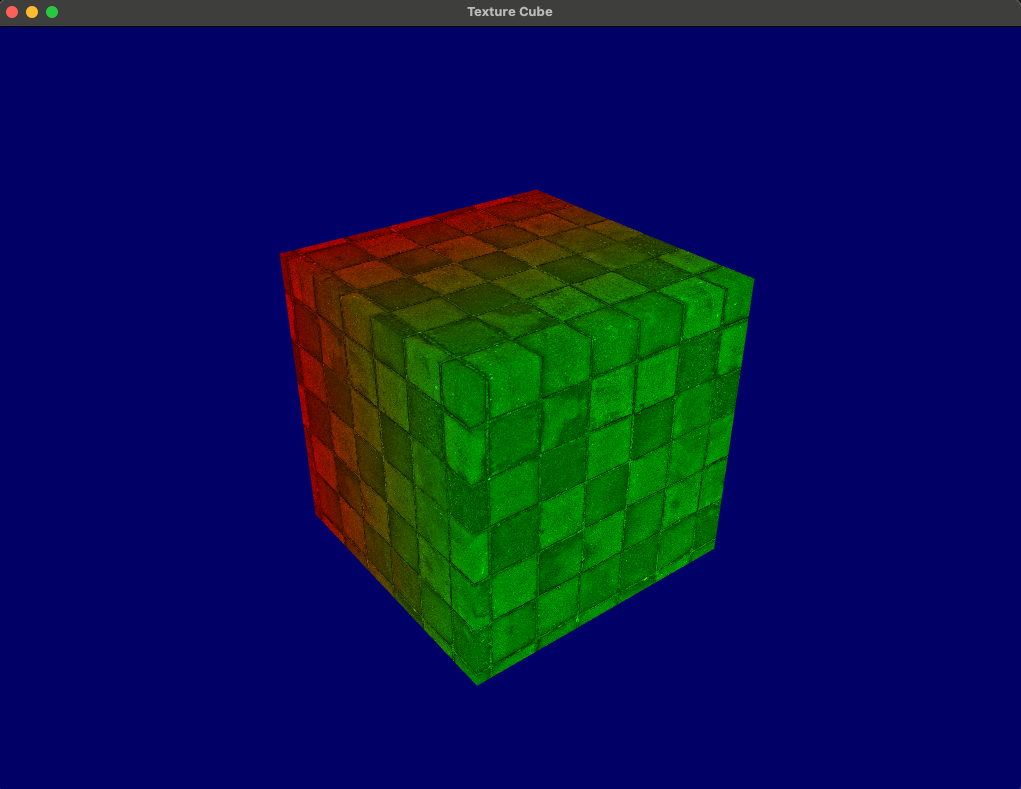
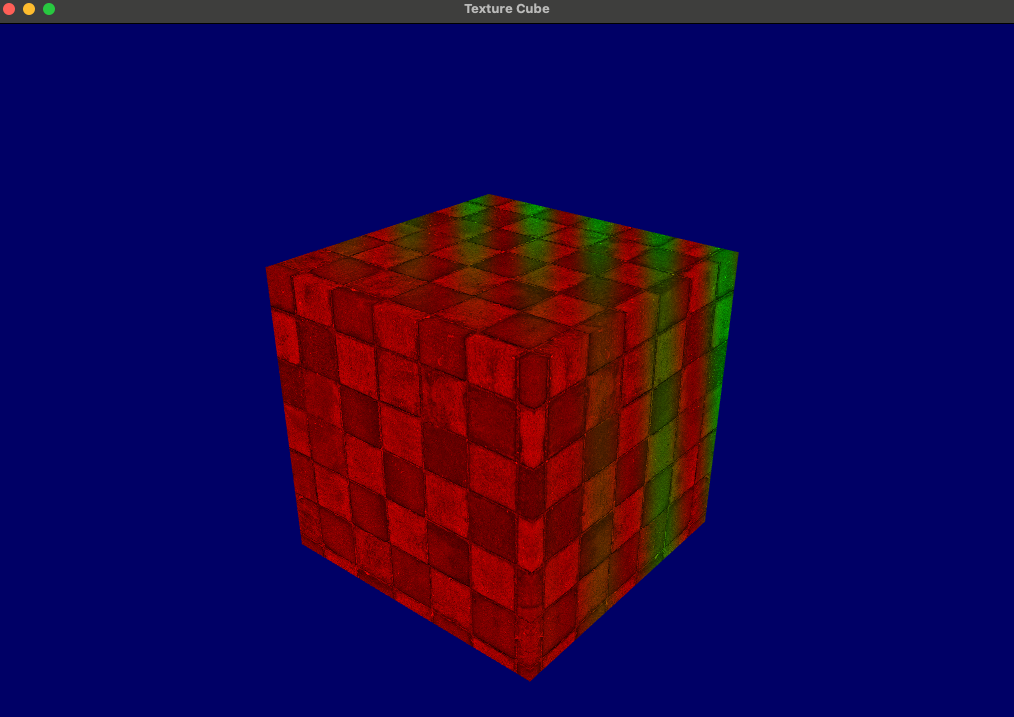
re-enabled rotation transform and color shimmer effect

Changed region(s): [[0.2446, 0.2455, 0.7337, 0.9512], [0.4586, 0.0, 0.5503, 0.0307], [0.0, 0.0, 0.0611, 0.0307]]

diff --git a/src/main.cpp b/src/main.cpp
@@ -258,7 +258,7 @@ int main() {
         auto model = glm::mat4(1.0f);
 
         // Apply transformations to the model matrix to rotate it around the y-axis at a rate of 50 degrees per second
-        //model = glm::rotate(model, glm::radians((float)glfwGetTime() * 50.0f), glm::vec3(0.0f, 1.0f, 0.0f));
+        model = glm::rotate(model, glm::radians((float)glfwGetTime() * 50.0f), glm::vec3(0.0f, 1.0f, 0.0f));
 
         // Set the view and projection matrices in the shader
         glm::mat4 view = camera.getViewMatrix();
@@ -268,14 +268,14 @@ int main() {
         shader.setMat4("projection", projection);
 
         // update the uniform color
-        //double timeValue = glfwGetTime();
+        double timeValue = glfwGetTime();
         // Dividing by 2.0f scales the result of the sine function to range between -0.5 and 0.5.
         // Adding 0.5f shifts the range of values to be between 0 and 1.
-        //float redValue = ((float)sin(timeValue) / 2.0f) + 0.5f;
-        //float greenValue = ((float)sin(timeValue + 10) / 2.0f) + 0.5f;
-        //float blueValue = 0;
-        //int vertexColorLocation = glGetUniformLocation(shader.getProgramID(), "cubeColor");
-        //glUniform4f(vertexColorLocation, redValue, greenValue, blueValue, 1.0f);
+        float redValue = ((float)sin(timeValue) / 2.0f) + 0.5f;
+        float greenValue = ((float)sin(timeValue + 10) / 2.0f) + 0.5f;
+        float blueValue = 0;
+        int vertexColorLocation = glGetUniformLocation(shader.getProgramID(), "cubeColor");
+        glUniform4f(vertexColorLocation, redValue, greenValue, blueValue, 1.0f);
 
         glBindVertexArray(VAO); // Bind the VAO
         glDrawElements(GL_TRIANGLES, 36, GL_UNSIGNED_INT, nullptr);
